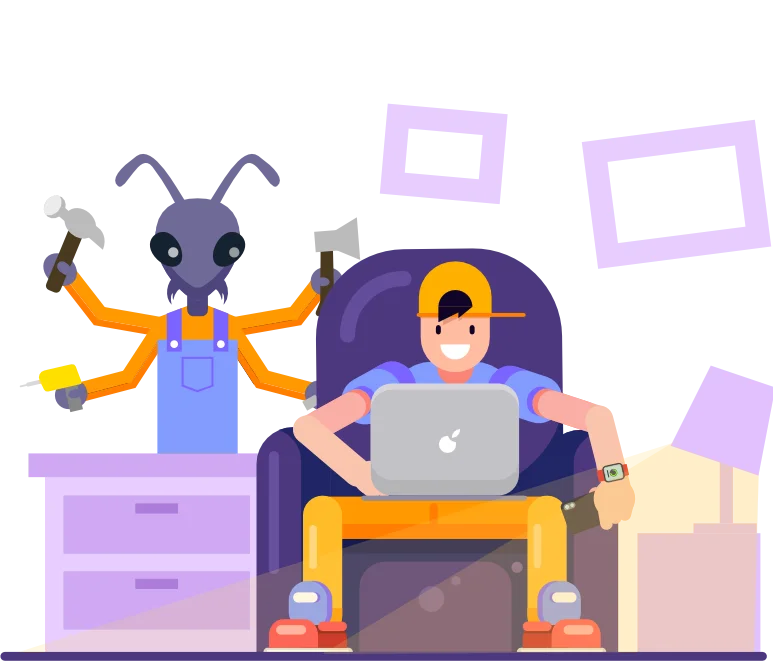
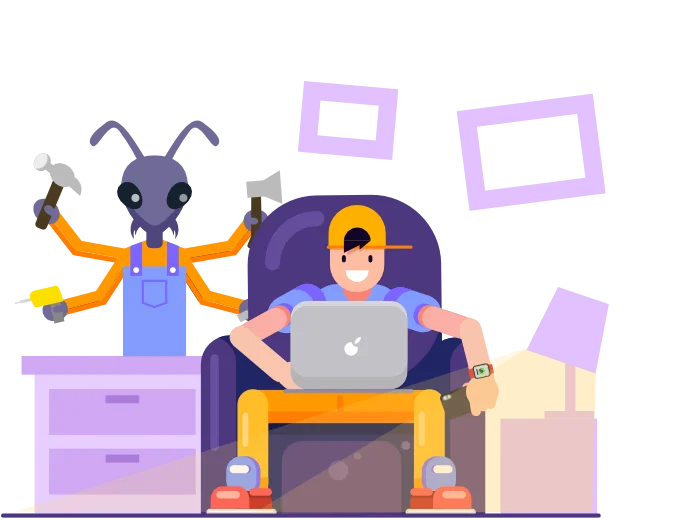
update header, footer and home page

diff --git a/components/HomeForWhom.vue b/components/HomeForWhom.vue
@@ -9,14 +9,14 @@
         </div>
       </div>
       <div class="for-whom__section">
-        <v-img class="for-whom__img" src="/img/for-developers.svg" />
+        <v-img class="for-whom__img for-developers" src="/img/for-developers.svg" />
         <div class="for-whom__text">
           <h4 class="for-whom__title">{{ $t("home.forWhomDevelopersTitle") }}</h4>
           <p>{{ $t("home.forWhomDevelopersDescription") }}</p>
         </div>
       </div>
       <div class="for-whom__section">
-        <v-img class="for-whom__img" src="/img/for-company.svg" />
+        <v-img class="for-whom__img for-company" src="/img/for-company.svg" />
         <div class="for-whom__text">
           <h4 class="for-whom__title">{{ $t("home.forWhomCompanyTitle") }}</h4>
           <p>{{ $t("home.forWhomCompanyDescription") }}</p>
@@ -52,12 +52,13 @@ export default {
   &__section {
     display: flex;
     height: 180px;
-    margin: 50px 0;
+    margin: 44px 0;
 
     &:nth-child(2n) {
       margin-left: 128px;
     }
     &:nth-child(3n) {
+      margin-top: 70px;
       margin-left: 256px;
     }
   }
@@ -66,6 +67,12 @@ export default {
     z-index: 1;
     max-width: 120px;
     height: 155px;
+    &.for-developers {
+      height: 162px;
+    }
+    &.for-company {
+      height: 144px;
+    }
   }
 
   &__text {
@@ -85,7 +92,7 @@ export default {
     width: 535px;
     left: -188px;
     height: 640px;
-    top: 212px;
+    top: 209px;
     background: url(/img/bg-ornament.svg);
     transform: scaleX(-1);
   }

diff --git a/components/TheHeader.vue b/components/TheHeader.vue
@@ -1,15 +1,13 @@
 <template>
   <v-app-bar
-    height="82"
     class="header"
-    app
-    fixed
+    flat
     :clipped-left="$vuetify.breakpoint.lgAndUp"
   >
-    <v-container class="d-flex align-center">
+    <v-container class="d-flex align-center pt-8">
       <v-toolbar-title>
         <router-link :to="localePath('index')">
-          <img class="header__logo" src="/img/anthive_logo.svg" alt="Logo" />
+          <img class="header__logo" src="/img/anthive_logo_dark.svg" alt="Logo" />
         </router-link>
       </v-toolbar-title>
       <v-spacer />
@@ -124,20 +122,18 @@ export default {
 @import '@/assets/style/global.scss';
 
 .header {
-  background: $color-violet-700 !important;
-  color: $color-white;
+  background: transparent !important;
   position: relative;
 
   &__logo {
-    width: 198px;
-    position: absolute;
-    bottom: 0;
+    width: 144px;
+    padding-top: 16px;
   }
 
   &__link {
     padding: 10px;
+    margin: 0 15px;
     font-weight: 500;
-    color: $color-white;
 
     &:hover {
       text-decoration: none !important;

diff --git a/components/TheFooter.vue b/components/TheFooter.vue
@@ -109,7 +109,7 @@ export default {
     AntHiveIcon
   },
   data: () => ({
-    locales: ['English', 'Русский'],
+    locales: ['En', 'Ru'],
     selectedLocale: ''
   }),
   created() {
@@ -119,10 +119,10 @@ export default {
     switchLocale(locale) {
       let localeParam
       switch (locale) {
-        case 'English':
+        case 'En':
           localeParam = 'en'
           break
-        case 'Русский':
+        case 'Ru':
           localeParam = 'ru'
           break
       }
@@ -151,7 +151,7 @@ export default {
   }
   &__locale-select {
     position: relative;
-    max-width: 120px;
+    max-width: 70px;
     margin: 1px 0 2px;
   }
   &__locale-select--earth-icon {

diff --git a/components/HomeSlogan.vue b/components/HomeSlogan.vue
@@ -60,7 +60,6 @@ export default {
     display: flex;
     flex-direction: column;
     justify-content: center;
-    padding: 0 40px;
   }
 
   &__actions {
